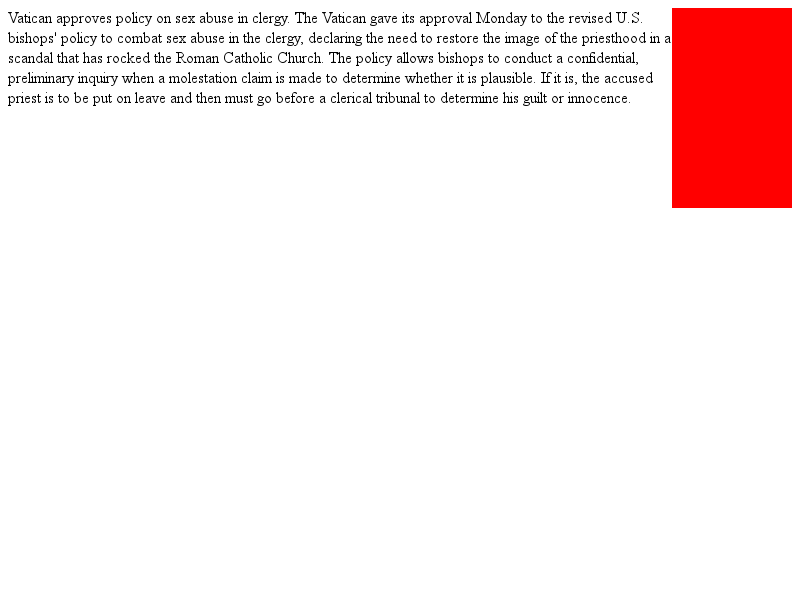
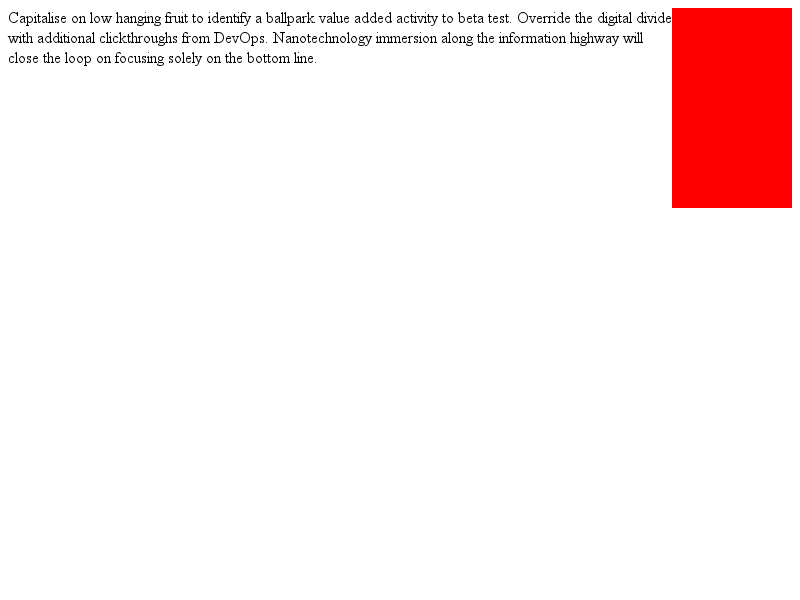
Replace text in a LayoutTest for gender-neutral code fixit
Replace entire passage taken from a particular news article with
more neutral dummy text (used http://www.cipsum.com to generate
random buzzword text).

BUG=542537

Review-Url: https://codereview.chromium.org/2541773002
Cr-Original-Commit-Position: refs/heads/master@{#435563}
Cr-Mirrored-From: https://chromium.googlesource.com/chromium/src
Cr-Mirrored-Commit: d49adee312456e6b82156afee18d9392aa044859

Changed region(s): [[0.0, 0.0, 0.8438, 0.18]]

diff --git a/WebKit/LayoutTests/fast/block/float/003.html b/WebKit/LayoutTests/fast/block/float/003.html
@@ -3,12 +3,8 @@
 <div style="float:right;width:120px;height:200px;background-color:red;"></div>
 <ol style="height:0px;"></ol>
 <p>
-Vatican approves policy on sex abuse in clergy.
-The Vatican gave its approval Monday to the revised U.S. bishops'
-policy to combat sex abuse in the clergy, declaring the need to restore the
-image of the priesthood in a scandal that has rocked the Roman Catholic Church.
-The policy allows bishops to conduct a confidential,
-preliminary inquiry when a molestation claim is made to determine whether
-it is plausible. If it is, the accused priest is to be put on leave and then
-must go before a clerical tribunal to determine his guilt or innocence.
+Capitalise on low hanging fruit to identify a ballpark value added activity to
+beta test. Override the digital divide with additional clickthroughs from
+DevOps. Nanotechnology immersion along the information highway will close the
+loop on focusing solely on the bottom line.
 </p>
